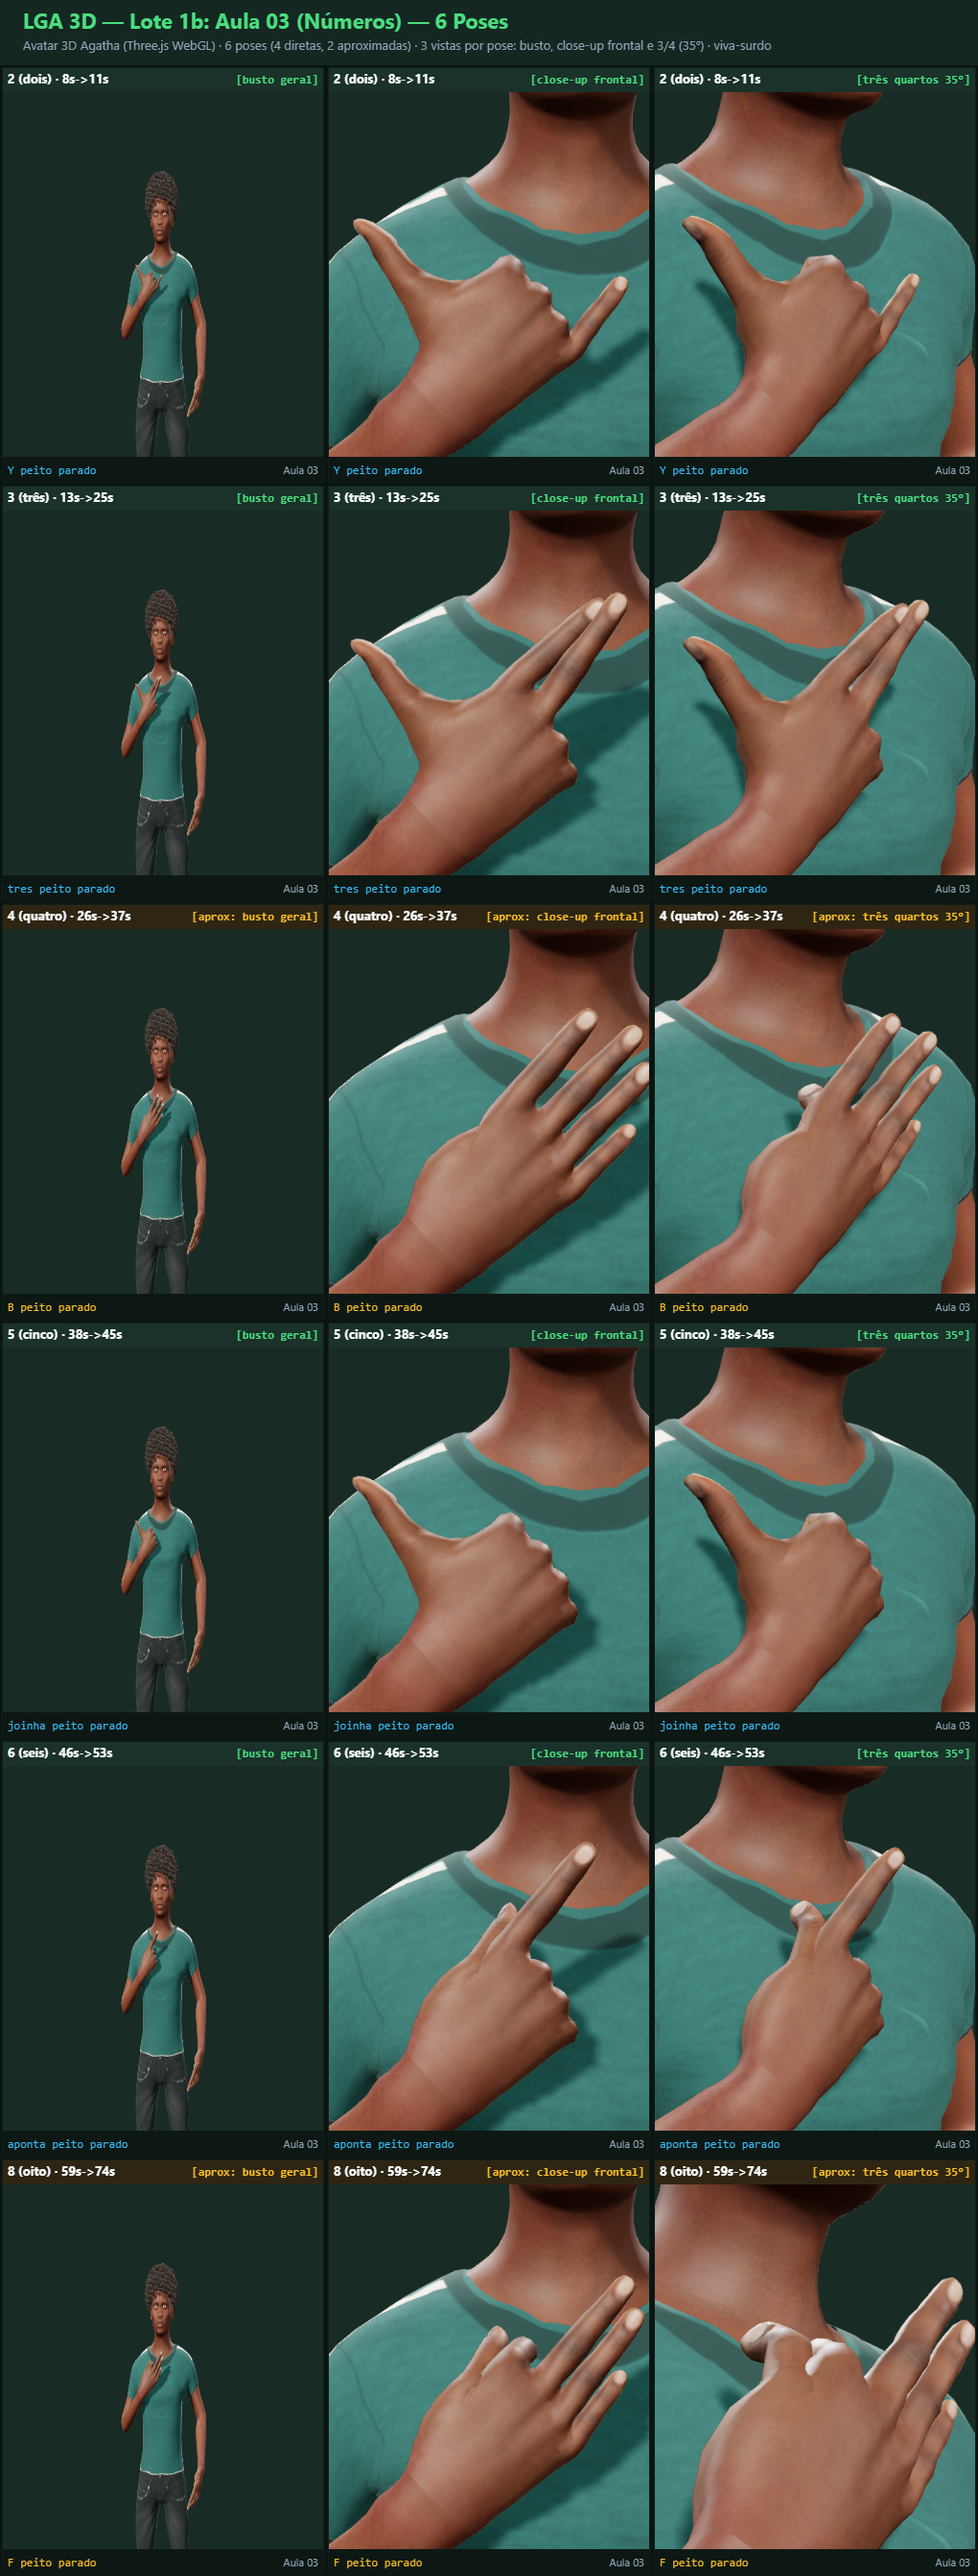
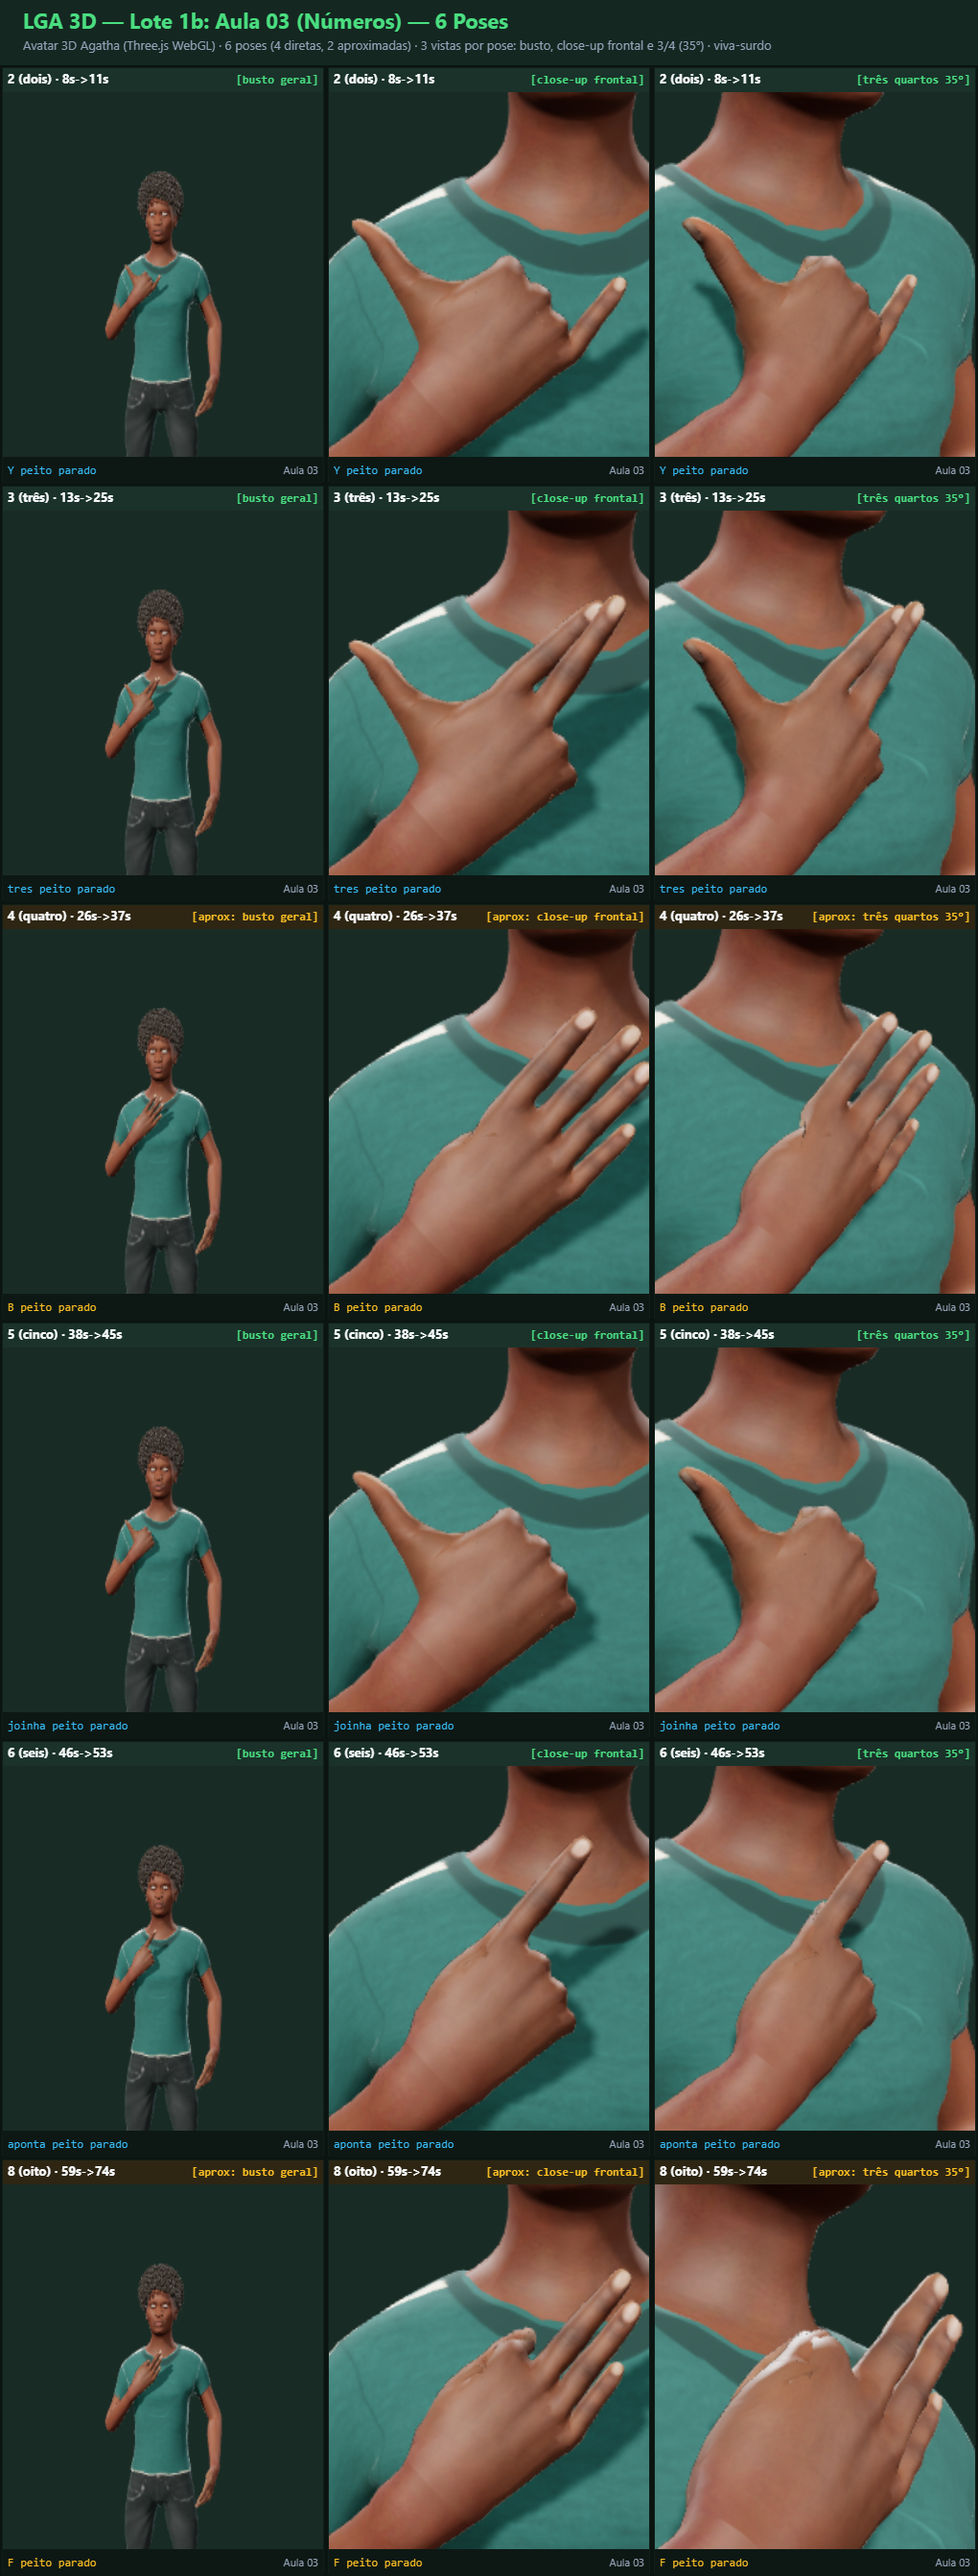
fix(3d): anatomia das maos, oposicao do polegar e interpolacao continua de animacao

diff --git a/app/avatar.js b/app/avatar.js
@@ -487,29 +487,46 @@
         const b1 = ossos['J_Bip_' + L + '_Thumb1'];
         const b2 = ossos['J_Bip_' + L + '_Thumb2'];
         const b3 = ossos['J_Bip_' + L + '_Thumb3'];
+
+        /* 3-DOF da articulação em sela CMC do polegar:
+           - Leque radial / adução palmar em AZ: abre para L/Y ou aduz para B/E
+           - Pronação axial de oposição em AY: roda a polpa para encarar os dedos
+           - Flexão palmar em AX: varre ligeiramente para dentro da palma */
+        const oppRatio = lim(flexao / 48, 0, 1);
+        const sinalLado = lado === 'D' ? -1 : 1;
+        const pronacao = oppRatio * 42 * sinalLado;
+
         if (b1) {
-          /* leque: o bind já está a 42°, e 1° de Z local é 1° de leque */
-          b1.quaternion.multiply(eixo(AZ, (abertura - POLEGAR_BIND) * -1));
-          /* oposição: o metacarpo fecha para o indicador dentro do plano da palma.
-             Fora do plano vai pouco — medido na sonda, 0.45 de flexão aqui punha a
-             ponta do polegar 42 mm à frente da palma em B e 50 mm em E; o polegar
-             saía como um espeto em vez de deitar sobre os dedos. */
-          b1.quaternion.multiply(eixo(AZ, flexao * 0.30));
-          b1.quaternion.multiply(eixo(AX, flexao * 0.16));
+          b1.quaternion.multiply(eixo(AZ, (abertura - POLEGAR_BIND) * -1 + flexao * 0.28));
+          b1.quaternion.multiply(eixo(AY, pronacao));
+          b1.quaternion.multiply(eixo(AX, flexao * 0.12));
         }
-        if (b2) b2.quaternion.multiply(eixo(AX, flexao * 0.45 + enrolar * 0.10));
-        if (b3) b3.quaternion.multiply(eixo(AX, flexao * 0.30 + enrolar * 0.55));
+        if (b2) b2.quaternion.multiply(eixo(AX, flexao * 0.38 + enrolar * 0.12));
+        if (b3) b3.quaternion.multiply(eixo(AX, flexao * 0.25 + enrolar * 0.50));
       } else if (ang) {
         for (let j = 0; j < 3; j++) {
           const b = ossos['J_Bip_' + L + '_' + nome + (j + 1)];
           if (!b) continue;
-          const a = j === 0 ? Math.min(ang[0] * GANHO_MCP, MCP_MAX) : ang[j];
+          let a;
+          if (j === 0) {
+            a = Math.min(Math.max(2.5, ang[0] * GANHO_MCP), MCP_MAX);
+          } else if (j === 1) {
+            a = Math.max(2.0, ang[1]);
+          } else {
+            const dipCoupled = ang[1] > 20 ? Math.max(ang[2], ang[1] * 0.65) : ang[2];
+            a = Math.max(2.0, dipCoupled);
+          }
           b.quaternion.multiply(eixo(AX, a));
         }
       }
       if (f.esp && iEsp < 4) {
         const b = ossos['J_Bip_' + L + '_' + nome + '1'];
-        if (b) b.quaternion.multiply(eixo(AZ, -f.esp[iEsp]));
+        if (b) {
+          const mcpAng = ang ? ang[0] : 0;
+          const flexFactor = lim(mcpAng / 80, 0, 1);
+          const atten = 1.0 - 0.85 * flexFactor;
+          b.quaternion.multiply(eixo(AZ, -f.esp[iEsp] * atten));
+        }
       }
     });
     modelo.updateMatrixWorld(true);
@@ -592,11 +609,12 @@
        ~150° no total, por isso o limite é largo */
     phi = lim(phi, -2.4, 2.4);
 
-    /* a pronação é do antebraço: roda o osso de torção (que leva a pele) e a mão
-       juntos. Rodar o LowerArm inteiro torcia também a pele do cotovelo. */
-    const qPron = new THREE.Quaternion().setFromAxisAngle(eixoF, phi);
-    if (torcao) rodarMundo(torcao, qPron);
-    rodarMundo(mao, qPron);
+    /* Distribuição anatómica da pronação do antebraço:
+       75% da torção no osso de torção intermediário (LowerArm_twist) que deforma
+       a massa muscular do antebraço, e a rotação total (100%) no Hand / pulso.
+       Isto evita o colapso tipo "candy-wrapper" da malha do pulso e do cotovelo. */
+    if (torcao) rodarMundo(torcao, new THREE.Quaternion().setFromAxisAngle(eixoF, phi * 0.75));
+    rodarMundo(mao, new THREE.Quaternion().setFromAxisAngle(eixoF, phi));
   }
 
   /* ===================== expressão ===================== */
@@ -707,6 +725,13 @@
     FILA.aoFim = aoFim || null;
     FILA.base = capturar();
     FILA.alvo = poseParaQuats(passos[0].pose);
+    if (FILA.base && FILA.alvo.quats) {
+      Object.keys(FILA.alvo.quats).forEach((bn) => {
+        if (FILA.base[bn] && FILA.alvo.quats[bn].dot(FILA.base[bn]) < 0) {
+          FILA.alvo.quats[bn].negate();
+        }
+      });
+    }
     FILA.mix = 0;
     FILA.mixDur = passos[0].mistura === 0 ? 0.001 : (passos[0].mistura || 0.18);
     aplicarExpressao(FILA.alvo.expr);
@@ -729,13 +754,27 @@
   let EXTERNO = null;
 
   function prepararPoses(passos) {
-    return passos.map((p) => {
+    const preparadas = passos.map((p) => {
       const alvo = poseParaQuats(p.pose);
       return {
         quats: alvo.quats, expr: alvo.expr || 'neutro',
         dur: Math.max(0.05, p.dur || 0.3), mistura: p.mistura || 0.16,
       };
     });
+    /* Verificação de caminho mais curto na hiperesfera S³ (anti-flip 180°):
+       Garante que poses consecutivas partilham o mesmo hemisfério de quaterniões */
+    for (let k = 1; k < preparadas.length; k++) {
+      const prevQ = preparadas[k - 1].quats;
+      const currQ = preparadas[k].quats;
+      if (prevQ && currQ) {
+        Object.keys(currQ).forEach((bn) => {
+          if (prevQ[bn] && currQ[bn].dot(prevQ[bn]) < 0) {
+            currQ[bn].negate();
+          }
+        });
+      }
+    }
+    return preparadas;
   }
 
   function mostrar(poses, tempo) {
@@ -762,8 +801,13 @@
     Object.keys(alvo).forEach((nome) => {
       const b = ossos[nome];
       if (!b) return;
-      if (base && base[nome]) b.quaternion.copy(base[nome]).slerp(alvo[nome], k);
-      else b.quaternion.copy(alvo[nome]);
+      if (base && base[nome]) {
+        const targetQ = alvo[nome];
+        if (base[nome].dot(targetQ) < 0) targetQ.negate();
+        b.quaternion.copy(base[nome]).slerp(targetQ, k);
+      } else {
+        b.quaternion.copy(alvo[nome]);
+      }
     });
     modelo.updateMatrixWorld(true);
   }
@@ -771,9 +815,21 @@
   function avancar(dt) {
     if (!FILA.ativo) return;
     FILA.t += dt;
-    FILA.mix = lim(FILA.mix + dt / FILA.mixDur, 0, 1);
-    misturarQuats(FILA.base, FILA.alvo.quats, suave(FILA.mix));
     const p = FILA.passos[FILA.i];
+    /* Interpolação suave contínua: amortecimento exponencial (dampQuaternion)
+       com taxa proporcional à mistura pedida pelo passo, eliminando o congelamento
+       abrupto e descontinuidades de aceleração entre passos. */
+    const lambda = 3.2 / Math.max(0.04, FILA.mixDur);
+    const factor = 1.0 - Math.exp(-lambda * dt);
+    Object.keys(FILA.alvo.quats).forEach((nome) => {
+      const b = ossos[nome];
+      if (!b) return;
+      const targetQ = FILA.alvo.quats[nome];
+      if (b.quaternion.dot(targetQ) < 0) targetQ.negate();
+      b.quaternion.slerp(targetQ, factor);
+    });
+    modelo.updateMatrixWorld(true);
+
     if (FILA.t >= p.dur) {
       FILA.t -= p.dur;
       FILA.i++;
@@ -782,9 +838,15 @@
         if (FILA.aoFim) FILA.aoFim();
         return;
       }
-      FILA.base = capturar();
       FILA.alvo = poseParaQuats(FILA.passos[FILA.i].pose);
-      FILA.mix = 0;
+      if (FILA.alvo && FILA.alvo.quats) {
+        Object.keys(FILA.alvo.quats).forEach((bn) => {
+          const b = ossos[bn];
+          if (b && FILA.alvo.quats[bn].dot(b.quaternion) < 0) {
+            FILA.alvo.quats[bn].negate();
+          }
+        });
+      }
       const prox = FILA.passos[FILA.i];
       FILA.mixDur = prox.mistura === 0 ? 0.001 : (prox.mistura || 0.16);
       aplicarExpressao(FILA.alvo.expr);
